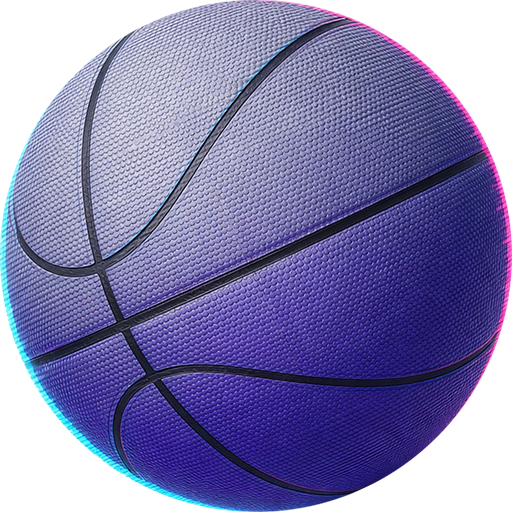
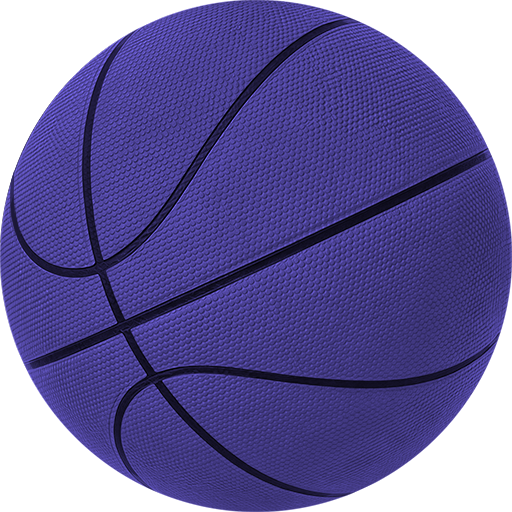
Sync local ball textures

diff --git a/src/game/render.ts b/src/game/render.ts
@@ -43,12 +43,23 @@ function boltThunder() {
   return null;
 }
 
-const quantumFrameImages: (HTMLImageElement | null)[] = [null, null, null, null];
-const quantumFrameRequested = [false, false, false, false];
 let quantumAuraImage: HTMLImageElement | null = null;
 let quantumAuraRequested = false;
 const quantumFontImages: (HTMLImageElement | null)[] = [null, null, null, null, null];
 const quantumFontRequested = [false, false, false, false, false];
+
+function quantumAura() {
+  if (quantumAuraImage?.complete && quantumAuraImage.naturalWidth > 0) return quantumAuraImage;
+  if (!quantumAuraRequested) {
+    quantumAuraRequested = true;
+    const image = new Image();
+    image.decoding = "async";
+    image.onload = () => { quantumAuraImage = image; };
+    image.src = "/game/balls/quantum-aura.png?v=1";
+    quantumAuraImage = image;
+  }
+  return null;
+}
 
 function quantumFont(index: number) {
   const font = Math.max(0, Math.min(4, index));
@@ -65,40 +76,15 @@ function quantumFont(index: number) {
   return null;
 }
 
-function quantumAura() {
-  if (quantumAuraImage?.complete && quantumAuraImage.naturalWidth > 0) return quantumAuraImage;
-  if (!quantumAuraRequested) {
-    quantumAuraRequested = true;
-    const image = new Image();
-    image.decoding = "async";
-    image.onload = () => { quantumAuraImage = image; };
-    image.src = "/game/balls/quantum-aura.png?v=1";
-    quantumAuraImage = image;
-  }
-  return null;
-}
-
-function quantumFrame(index: number) {
-  const frame = Math.max(0, Math.min(3, index));
-  const cached = quantumFrameImages[frame];
-  if (cached?.complete && cached.naturalWidth > 0) return cached;
-  if (!quantumFrameRequested[frame]) {
-    quantumFrameRequested[frame] = true;
-    const image = new Image();
-    image.decoding = "async";
-    image.onload = () => { quantumFrameImages[frame] = image; };
-    image.src = `/game/balls/quantum${frame}.png?v=1`;
-    quantumFrameImages[frame] = image;
-  }
-  return null;
+function quantumBaseTexture() {
+  return ballImage("quantum");
 }
 
 function drawQuantumBall(ctx: CanvasRenderingContext2D, ball: Ball, lit: boolean, time: number) {
-  // Tunneling is intentionally legible: disappear between each alternate quantum frame.
-  const sequence: Array<number | null> = [null, 1, null, 2, null, 3];
-  const frame = ball.blink ? sequence[Math.floor(time * 18) % sequence.length]! : 0;
-  if (frame === null) return;
-  const texture = quantumFrame(frame) ?? ballImage("quantum");
+  // Tunneling remains legible by disappearing on alternating phase frames.
+  const visible = !ball.blink || Math.floor(time * 18) % 2 === 1;
+  if (!visible) return;
+  const texture = quantumBaseTexture();
   const { x, y, r, spin, squash } = ball;
   ctx.save();
   ctx.translate(x, y + (squash < 1 ? r * (1 - squash) : 0));
